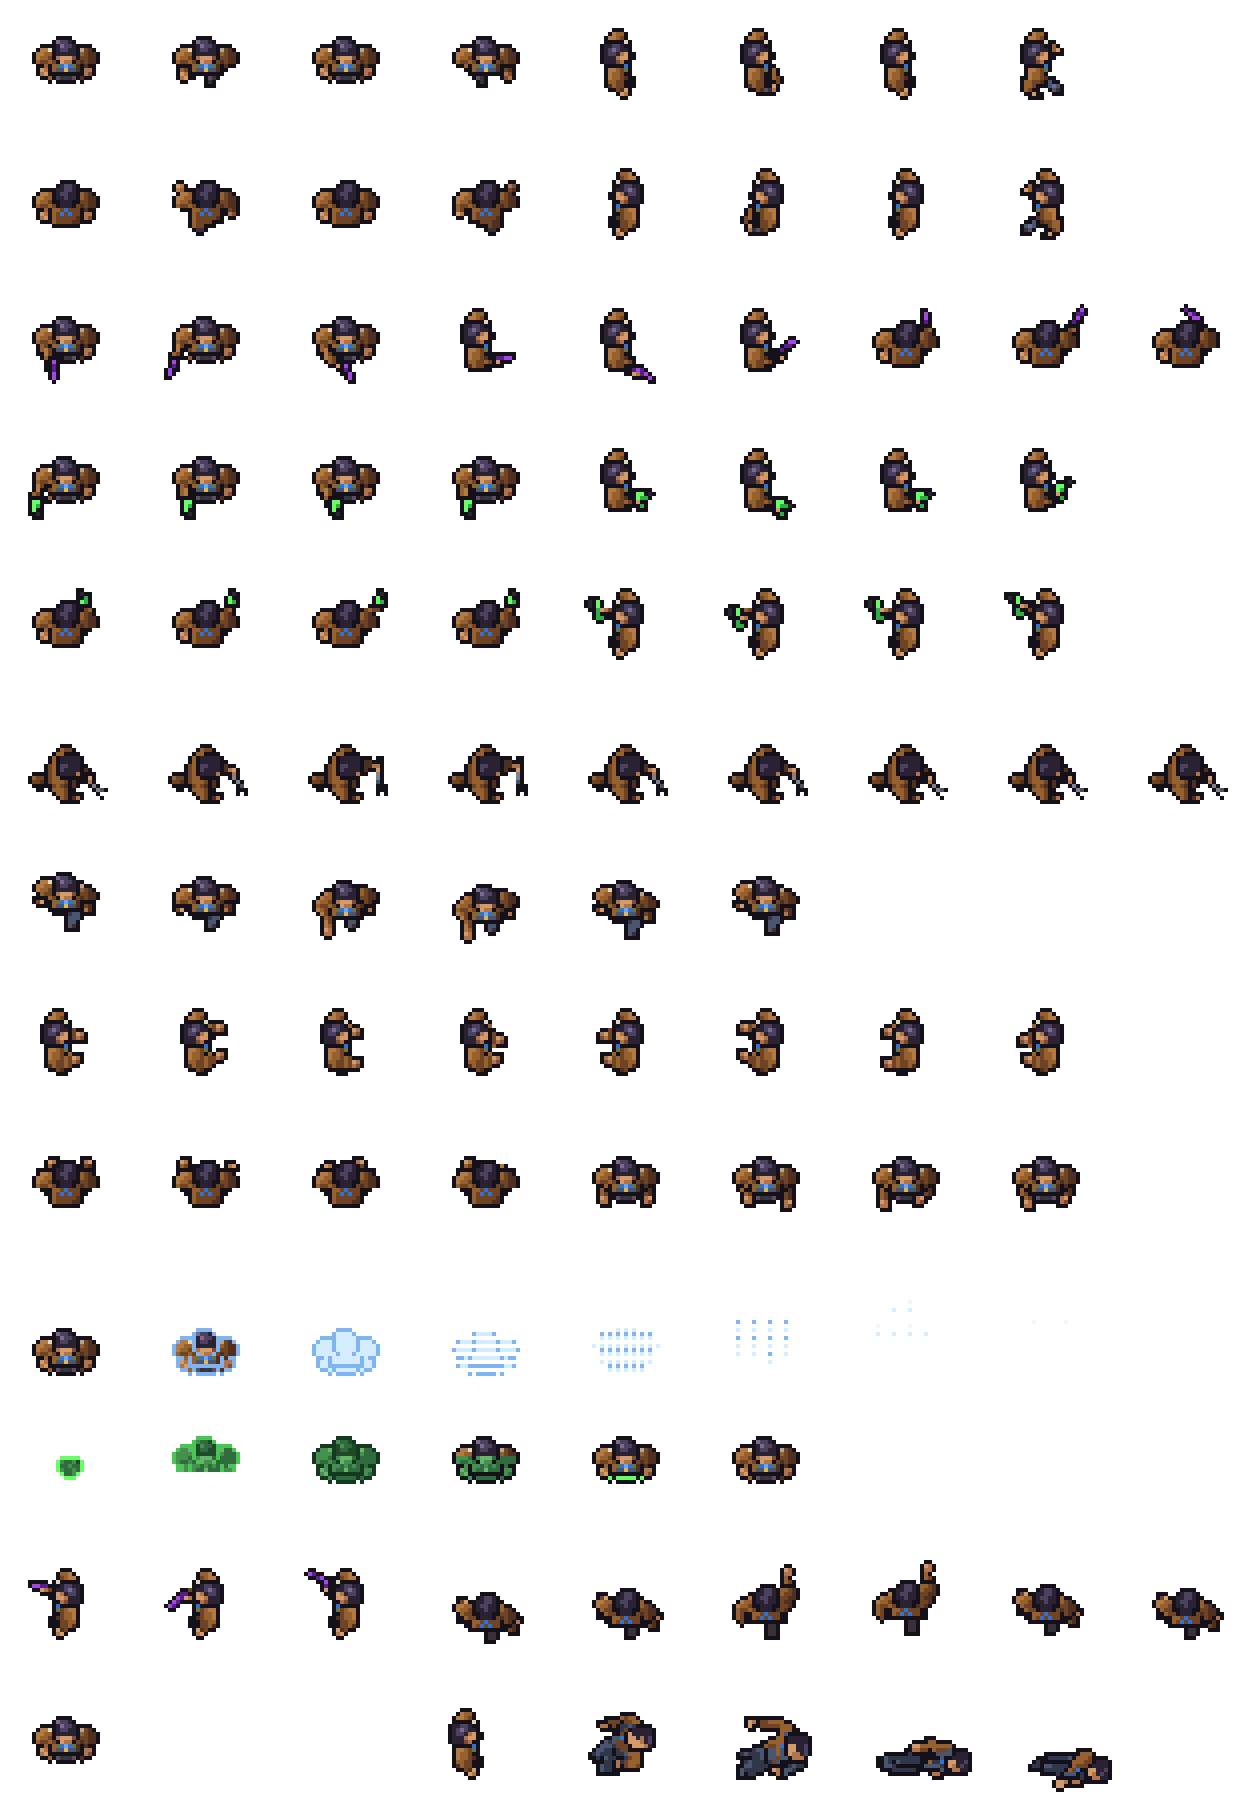
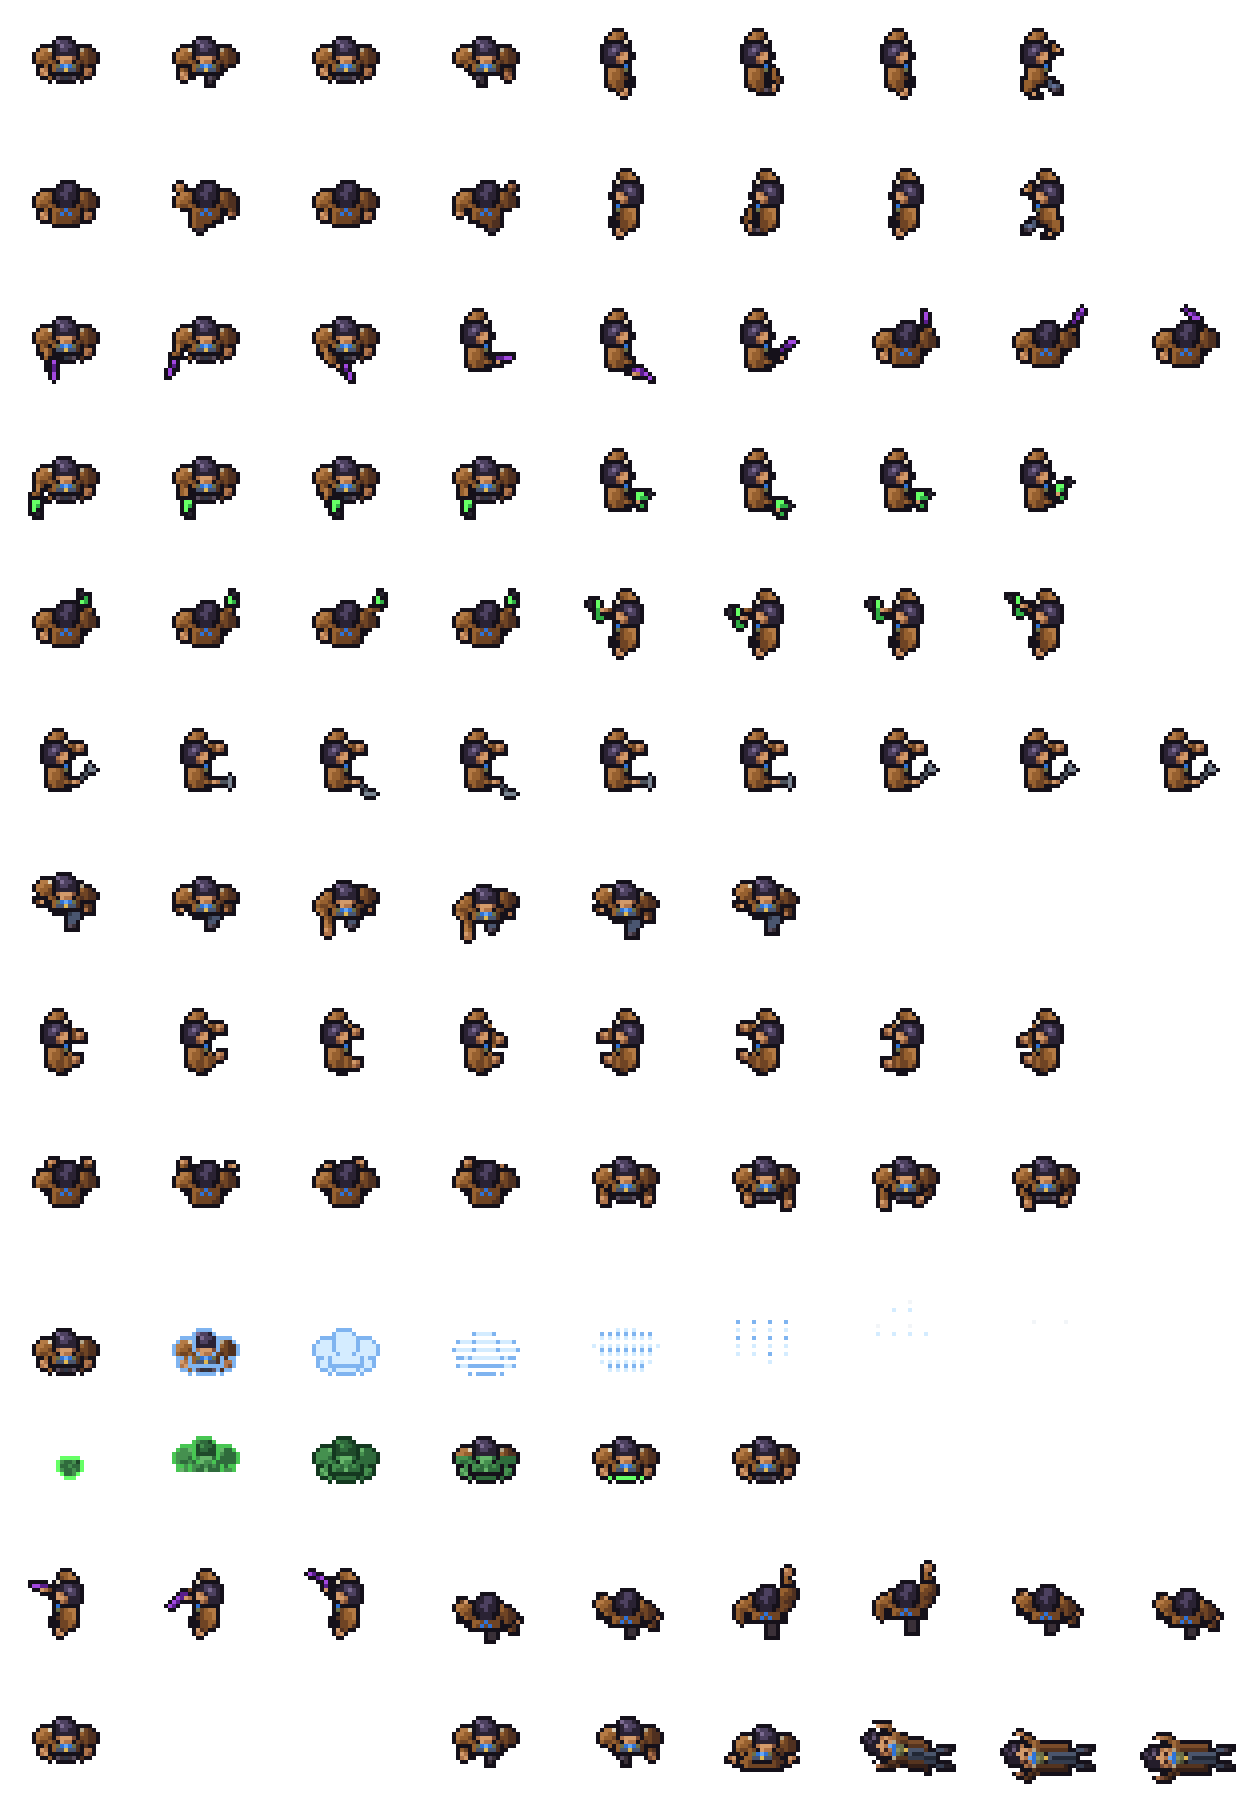
Top-down drifter: repair and death redrawn from his own frames, and back in the game
Repair is his side view with a hammer in his near hand. Death is a stumble, a
lurch and his knees going, then the sprawl on his back from his face-forward
sheet. Neither uses the genre's poses any more.

Claude-Session: https://claude.ai/code/session_01TQ4qhujdUDh59Vp7VzLUu7

diff --git a/docs/art/terran/crew-test-4/tools/topdown.py b/docs/art/terran/crew-test-4/tools/topdown.py
@@ -475,148 +475,85 @@ def punch_up():
     return [put(g, DOWN_AT, down=down) for g, down in poses]
 
 
-# --- Repairs: bent over his work, seen from above; the tool arm rises in three drawings over nine frames -------------
-# The pose is the genre's, part for part, in his colours: the far shoulder and the coat's back on the left, the head
-# in the middle, the tool arm on the right, the near hand on the deck below.
+# --- Repairs: his own side view, one hand steadying the work and a tool in the other ---------------------------------
+# Redrawn from his own frames (heromedel, 2026-11-11): the first version of this row took the genre's crouched pose
+# part for part, which must not go in the game. He stands side on, as he does at a console; his far hand holds the
+# work steady and his near hand swings a small hammer: raised, level, struck. Played as the genre plays its three
+# drawings over nine frames: 1 2 3 3 2 2 1 1 1.
 
-REPAIR = [grid(rows, 25) for rows in ([
-    "..........ooo............",
-    ".........oecco...........",
-    "........oeeoooo..........",
-    ".......oeohhhhho.........",
-    ".......oeohhhhho.........",
-    "......oceoiihhhoo........",
-    "......oceoihhhhodo.......",
-    "...ooooceohhhhtoooo......",
-    "..oeccoceeoooooooso......",
-    "..occdoceeecodoooto......",
-    "...ooooocecdodo..oGo.....",
-    "....oo.oeeecoo....oGDo...",
-    "........oeecoooo...o.....",
-    ".........oecodto....o....",
-    "..........ooooo..........",
-], [
-    "..........ooo............",
-    ".........oecco...........",
-    "........oeeoooo..........",
-    ".......oeohhhhho.........",
-    ".......oeohhhhhoo........",
-    "......oceoiihhhodoo......",
-    "......oceoihhhhodtso.....",
-    "...ooooceohhhhtoooto.....",
-    "..oeccoceeooooo..oGo.....",
-    "..occdoceeecodo...oGo....",
-    "...ooooocecdodo....oD....",
-    "....oo.oeeecoo.....ooo...",
-    "........oeecoooo...o.o...",
-    ".........oecodto.........",
-    "..........ooooo..........",
-], [
-    "..........ooo............",
-    ".........oecco...........",
-    "........oeeoooo..........",
-    ".......oeohhhhhooo.oo....",
-    ".......oeohhhhhoddooo....",
-    "......oceoiihhhoddtto....",
-    "......oceoihhhhodooso....",
-    "...ooooceohhhhtoo..Go....",
-    "..oeccoceeooooo....Go....",
-    "..occdoceeecodo....Do....",
-    "...ooooocecdodo....ooo...",
-    "....oo.oeeecoo.....ooo...",
-    "........oeecoooo...o.o...",
-    ".........oecodto.........",
-    "..........ooooo..........",
-])]
+_REPAIR_BODY = grid([
+    ".....ooo.............",
+    "....ofeeo............",
+    "...offeco............",
+    "...ooooowoooo........",
+    "..ohhiihoecsto.......",          # his far hand out ahead, on the work
+    "..ohijihhoctuo.......",
+    "..ohiihtsooooo.......",
+    "..ohhhtssoo..........",
+    "..ohhhutoo...........",
+    "...ooooobo...........",
+    "...offecao...........",
+    "...ofeecoo...........",
+    "...ofeecdoooo........",
+    "...oeeccecsto........",          # his near arm and fist
+    "...odeccoooo.........",
+    "....oooooo...........",
+    ".....................",
+    ".....................",
+], 21)
+# The hammer, from the fist outward: a dark handle and a grey head, as (column, row, colour).
+_HAMMER = [[(12, 12, "D"), (13, 11, "D"), (14, 10, "G"), (15, 10, "G"), (14, 9, "G")],          # raised
+           [(12, 13, "D"), (13, 13, "D"), (14, 13, "G"), (14, 12, "G"), (14, 14, "G")],          # level
+           [(12, 14, "D"), (13, 15, "D"), (14, 16, "G"), (13, 16, "G"), (15, 16, "G")]]          # struck
+
+
+def holding(rows, pixels):
+    """A grid with some pixels added and an outline drawn round them wherever nothing else is."""
+    cells = [list(row) for row in rows]
+    for x, y, code in pixels:
+        cells[y][x] = code
+    for x, y, code in pixels:
+        for dx, dy in ((1, 0), (-1, 0), (0, 1), (0, -1)):
+            if 0 <= y + dy < len(cells) and 0 <= x + dx < len(cells[0]) and cells[y + dy][x + dx] == ".":
+                cells[y + dy][x + dx] = "o"
+    return ["".join(row) for row in cells]
+
+
+REPAIR = [grid(holding(_REPAIR_BODY, hammer), 21) for hammer in _HAMMER]
 
 
 def repair():
-    drawings = [put(g, (5, 11)) for g in REPAIR]
+    drawings = [put(g, SIDE_AT) for g in REPAIR]
     return [drawings[i] for i in (0, 1, 2, 2, 1, 1, 0, 0, 0)]
 
 
-# --- Dying, from the side: he staggers, goes over backwards, is down, and settles ------------------------------------
-# The four falling poses are the genre's, part for part, in his colours: slate legs, brown coat, dark hair.
+# --- Dying: he stumbles, lurches, his knees go, and he lands sprawled on his back ------------------------------------
+# Redrawn from his own frames (heromedel, 2026-11-11): the first version took the genre's four falling poses part for
+# part, which must not go in the game. Six frames. The first three are his top-down figure: a stumbling step, a lurch
+# the other way, and his knees going, his arms flung out. The last three are the end of the fall from his
+# face-forward sheet (crew test 3): flat on his back, arms and legs sprawled, bouncing once and settling. A man lying
+# on his back, seen from above, is seen whole and face on, so that drawing is the right one here; it is set in the
+# middle of the tile.
 
-FALLING = [grid(rows, 29) for rows in ([
-    "..........oooo...............",
-    "......ooooeceeo..............",
-    "....ooocccocceeo.............",
-    "....ottocommpmoooo...........",
-    ".....ooooomcohhhhho..........",
-    "........oocoshhhhho..........",
-    "......ooppbosshthio..........",
-    ".....opmpccosssthio..........",
-    "....opppmcccossstho..........",
-    "...oppmmomccoooooo...........",
-    "..ompmmmommpeeeo.............",
-    "..oomopmmoomceeo.............",
-    "...ooommotmceeeo.............",
-    "....opmmotoceeco.............",
-    "....opmmooooooo..............",
-    "....oooooo...................",
-], [
-    ".............................",
-    "......oooooooooo.............",
-    "......ostocceeeeoo...........",
-    "......osooccccceeeo..........",
-    ".......oo.oooooeeeoo.........",
-    "..............oepooooo.......",
-    "............ooeeohhhhho......",
-    "..........ooeeeeohhhhho......",
-    "........oooeccebosshhio......",
-    ".....ooomppoppeposshhio......",
-    "....ompmmmpoppepostthio......",
-    "....oooommpoppcppottto.......",
-    ".....ompmmmomcpooooooo.......",
-    "....ooppmmmmooooompmmo.......",
-    "....opmmmmmoostoppmoo........",
-    "....opommoo.ootopoo..........",
-    "....ooooo.....ooo............",
-], [
-    ".............................",
-    ".............................",
-    ".............................",
-    ".............................",
-    ".............................",
-    ".............................",
-    "................ooo..........",
-    ".............ooooeeoooo......",
-    "............osseeeeeeeeo.....",
-    "...........oottccoecccpoooo..",
-    "......oooooomooooooppppohhho.",
-    "....oopmmmmmmmmooooopoohhhho.",
-    "....oopmopmmmmmooemmbosshhio.",
-    "....ooppmoooooooppppmosthiho.",
-    ".....ooommmmmmoooooopootthho.",
-    ".......oooooooo..ottooooooo..",
-    "..................ooo........",
-], [
-    ".............................",
-    ".............................",
-    ".............................",
-    ".............................",
-    ".............................",
-    ".............................",
-    ".............................",
-    ".............................",
-    ".............................",
-    "...................oooo......",
-    "...........oooooooooeeeo.....",
-    ".........ooommmmmpoeeecoooo..",
-    "........omooooooooeeeccohhho.",
-    ".......ommoppmmmmoecccohhhho.",
-    ".......oooommmmmoecboosshhio.",
-    "..........oooomopppomosthiho.",
-    "..............oooooomootthho.",
-    ".............osstottooooooo..",
-    ".............ossooooo........",
-    "..............oo.............",
-])]
+KNEES_GO = change(STAND_DOWN, {      # sunk two rows, both arms flung out, the hem spread on the floor
+    7: ".oooeoeabBbadodooo...",
+    8: "otsooeeppyppddoosto..",
+    9: "ootoeecooooocddotoo..",
+    10: "..oooecccccccdooo....",
+    11: "....ooooooooooo......",
+}, 21)
 
 
 def death():
-    return [put(STAND_RIGHT, (5, 7))] + [put(g, (5, 8)) for g in FALLING]
+    fallen = Image.open("../crew-test-3/terran-drifter-sheet.png").convert("RGBA")
+    lying = []
+    for column in (4, 5, 7):                       # down, the bounce, settled
+        cell = fallen.crop((column * FRAME, 11 * FRAME, (column + 1) * FRAME, 12 * FRAME))
+        box = cell.getbbox()
+        image = Image.new("RGBA", (FRAME, FRAME), (0, 0, 0, 0))
+        image.alpha_composite(cell.crop(box), ((FRAME - (box[2] - box[0])) // 2, 19 - (33 - box[1]) + 14 - 7))
+        lying.append(image)
+    return [put(STEP_DOWN, DOWN_AT), put(STEP_DOWN_2, DOWN_AT, across=1), put(KNEES_GO, DOWN_AT, down=2)] + lying
 
 
 # --- The genre's kind of teleport, kept as the alternative: his own columns are drawn up and he comes apart -----------

diff --git a/docs/art/terran/crew-test-4/README.md b/docs/art/terran/crew-test-4/README.md
@@ -38,14 +38,14 @@ same frame counts:
 | 3 | Aim down, right, up (3 each: straight, a little to his right, a little to his left; no flash) |
 | 4 | Fire down (4), fire right (4): the green extinguisher swept from side to side, no spray |
 | 5 | Fire up (4), fire left (4) |
-| 6 | Repair (9 frames from 3 drawings, played 1 2 3 3 2 2 1 1 1) |
+| 6 | Repair (9 frames from 3 drawings, played 1 2 3 3 2 2 1 1 1): side on, his far hand on the work, his near hand swinging a small hammer (raised, level, struck) |
 | 7 | Punch down (6) |
 | 8 | Type right (4), type left (4) |
 | 9 | Type up (4), type down (4) |
 | 10 | Teleport (9: his edge lights up, he turns all to light, and the light thins into bands, columns and rising sparks; the last frame is empty) |
 | 11 | Clone (6: a lump and a bare figure in muted power green with a bright edge that fades, then his colours coming in from the head down, his feet last) |
 | 12 | Aim left (3), punch up (6) |
-| 13 | Portrait (the standing frame), crew laser shot (a white bar), a gap, death (5, from the side) |
+| 13 | Portrait (the standing frame), crew laser shot (a white bar), a gap, death (6: a stumbling step, a lurch, his knees go, then flat on his back, a bounce, settled) |
 
 - **Decided (heromedel, 2026-11-10):** the sheet's teleport is the light one, first made for crew test 3. The
   genre's kind, where his own pixels are pulled upward, is kept beside the sheet as the alternative:
@@ -72,12 +72,20 @@ It was drawn frame for frame against the genre's sheet, working from letter maps
 each frame. Measured afterwards, frame against frame in the same place on the sheet:
 
 - **No pixel has the genre's colour** except the white laser bar, which is plain white on both.
-- **The outlines nearly coincide on almost every row:** 92–98% of the shape is shared on the walk, aim, fire, punch
-  and type rows, **97% on death and 100% on repair**. Those last two were first drawn as my own poses; heromedel
-  found the repair senseless ("a severed hand or a vulture") and the death "dumb" (2026-11-10), so both now take the
-  genre's poses part for part, in his colours. This is the closest the project has come to the genre's own drawing.
-  heromedel decides whether that is the right side of the repo's rule (likeness and design may match exactly; lifting
-  the art files is forbidden), and whether this sheet stays a study or goes in the game.
+- **The outlines nearly coincide on the rows drawn against the genre's:** 92–98% of the shape is shared on the walk,
+  aim, fire, punch and type rows.
+- **Repair and death are his own (heromedel, 2026-11-11).** For a day both took the genre's poses part for part, in
+  his colours (100% and 97% shared), after heromedel found my first own repair senseless ("a severed hand or a
+  vulture") and my first own death "dumb" (2026-11-10). That was a recolour of the genre's drawing, which the repo's
+  rule forbids, so both were redrawn from his own frames:
+  - **Repair** is his own side view, as he stands at a console, with his far hand on the work and a small hammer in
+    his near hand.
+  - **Death** opens with three of his top-down frames (a stumbling step, a lurch the other way, his knees going with
+    his arms flung out) and ends with the fall from his own face-forward sheet (crew test 3): flat on his back,
+    sprawled, bouncing once and settling. A man lying on his back, seen from above, is seen whole and face on, so
+    that drawing is the right one here.
+  - Measured again, frame against frame in the same cell, the shape they share with the genre's frames is 37–44%
+    for repair and 31–53% for death, which is what any two figures standing in the middle of the same tile share.
 - **Two rows are worked out and share little of their shape:** the teleport, which is now the light one and unlike
   the genre's, and the clone (66%). Walking
   away shares 86%, because of the hem.

diff --git a/docs/godot-version-decisions.md b/docs/godot-version-decisions.md
@@ -302,8 +302,8 @@ All built in the build of 2026-11-05.
 
 2. **Art Style** (GV 7F): built 2026-11-11 with the five sheets that exist and the standing Tabby. Still to fill in:
    top-down Tabbys; the Tabby's animations in the Facing style; top-down Tentauri; any sheet at all for the
-   Azurethea, Malphen, Lykario and Senti-GPH; the top-down drifter's repair and death rows, which are left out of
-   the game until they are redrawn; death and clone-bay animations, which the game does not play yet.
+   Azurethea, Malphen, Lykario and Senti-GPH; death and clone-bay animations, which the game does not play
+   yet. The top-down drifter's repair and death rows were redrawn from his own frames the same day and are in.
 
 ## Later (the road map)
 

diff --git a/infall-godot/README.md b/infall-godot/README.md
@@ -124,7 +124,7 @@ The Art Style setting shows a token for any race with no sheet in the chosen sty
 
 | Race | Top Down | Facing |
 |---|---|---|
-| GATOS as Terrans | The drifter; its repair and death rows are left out until they are redrawn | The drifter |
+| GATOS as Terrans | The drifter | The drifter |
 | GATOS as Tabbys | None | Standing only, in four directions: no animations |
 | Mecha | The suit | The older crew sheet |
 | Tentauri | None | The crew sheet |
